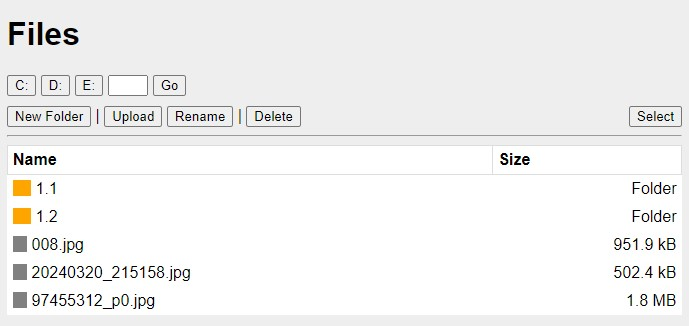
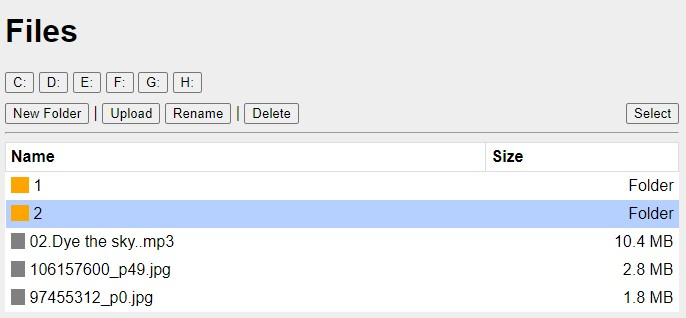
upload multiple files

diff --git a/templates/index.html b/templates/index.html
@@ -29,18 +29,19 @@
             <button onclick="document.getElementById('new').style.display='block'">New Folder</button> |
             <button onclick="document.getElementById('upload').style.display='block'">Upload</button>
             <button onclick="document.getElementById('rename').style.display='block';inputName();">Rename</button> |
-            <!-- <button>Move</button>
-            <button>Copy</button> -->
-
             <button onclick="document.getElementById('del').style.display='block'">Delete</button>
-            
+
             <button id="btnSelect" onclick="btnSelect()" style="float: right;">Select</button>
         </div>
         <hr>
+        
         <div id="upload" class="modal">
             <form class="modal-content" method=post enctype=multipart/form-data>
-                <input type=file name=file>
-                <input type=submit value=Upload!>
+                <input type="file" id="files" name="files" multiple>
+                <div class="progress-wrapper">
+                    <div id="progress-bar" class="progress"></div>
+                </div>
+                <input type="submit" value="Upload!">
             </form>
         </div>
         <div id="new" class="modal">
@@ -81,7 +82,7 @@
             {% for list in lists[0] %}
             <tr>
                 <td>
-                    <a href="{{ cur_dir + list['name'] }}"><div class="dir"></div>{{ list['name'] }}</a>
+                    <a href="{{ cur_dir + '/' + list['name'] }}"><div class="dir"></div>{{ list['name'] }}</a>
                 </td>
                 <td class="select"><input type="checkbox" class="dirname" value="{{ list['name'] }}"></td>
                 <td class="size">{{ list['size'] }}</td>
@@ -90,7 +91,7 @@
             {% for list in lists[1] %}
             <tr>
                 <td>
-                    <a href="{{ cur_dir + list['name'] }}">
+                    <a href="{{ cur_dir + '/' + list['name'] }}">
                         <div class="file"></div>{{ list['name'] }}
                     </a>
                 </td>
@@ -145,10 +146,10 @@
                     selfile.push(el.value);
                 });
                 if (dir) {
-                    // console.log(seldir);
+                    console.log(seldir);
                     return seldir;
                 } else {
-                    // console.log(selfile);
+                    console.log(selfile);
                     return selfile;
                 }
             }
@@ -181,6 +182,33 @@
                 }
                 document.getElementById('newname').value = name;
             }
+            function postFile() {
+                var formdata = new FormData();
+                formdata.append('files', document.getElementById('files').files[0]);
+                
+                var request = new XMLHttpRequest();
+                request.upload.addEventListener('progress', function (e) {
+                    var fileSize = document.getElementById('files').files[0].size;
+                    console.log(fileSize);
+                    
+                    if (e.loaded <= fileSize) {
+                        var percent = Math.round(e.loaded / fileSize * 100);
+                        document.getElementById('progress-bar').style.width = percent + '%';
+                        document.getElementById('progress-bar').innerHTML = percent + '%';
+                    } 
+                    
+                    if(e.loaded == e.total){
+                        document.getElementById('progress-bar').style.width = '100%';
+                        document.getElementById('progress-bar').innerHTML = '100%';
+                    }
+                });
+                request.upload.addEventListener('loadend', function (e) {
+                    
+                });
+                request.open('post', '{{ cur_dir }}');
+                request.timeout = 45000;
+                //request.send(formdata);
+            } 
         </script>
     </body>
 </html>

diff --git a/static/style.css b/static/style.css
@@ -116,3 +116,14 @@ a {
 .modal-content button {
     margin: 5px 10px;
 }
+
+.progress-wrapper {
+    width:100%;
+}
+.progress-wrapper .progress {
+    color: white;
+    text-align: center;
+    background-color:green;
+    width:0%;
+    padding:5px 0px 5px 0px;
+}

diff --git a/fileup.py b/fileup.py
@@ -1,57 +1,40 @@
 from flask import Flask, render_template, flash, request, send_file, redirect, url_for, abort
-from werkzeug.utils import secure_filename
 import os, shutil
-from urllib.parse import urlparse
 
-#$env:FLASK_APP="fileup.py";$env:FLASK_ENV="development";flask run -h 0.0.0.0
+#flask --app fileup --debug run -h 0.0.0.0
 
 app = Flask(__name__)
 app.secret_key = 'dev'
 app.config['UPLOAD_FOLDER'] = 'uploads'
-root = 'd:/'
+root = 'd:\\'
 
 @app.route('/', methods=['GET', 'POST'])
 def index():
-    cur_dir = '/'
+    
+    return redirect('/files')
+
+@app.route('/files/', methods=['GET', 'POST'])
+@app.route('/files/<path:url>', methods=['GET', 'POST'])
+def show_list(url=None):
+    #if url == 'favicon.ico':
+    #    return redirect(url_for('static', filename='icon.webp'))
     global root
     drives = [ chr(x) + ":" for x in range(65,91) if os.path.exists(chr(x) + ":") ]
-    try:
-        lists = show_file(root)
-    except:
-        root = 'd:/'
-        lists = show_file(root)
-    try:
-        filedest = upload()
-    except:
-        flash('Upload Fail')
-        return redirect('/')
-    if filedest:
-        return redirect(request.url)
     
-    return render_template('index.html', lists=lists, cur_dir=cur_dir, drives=drives)
+    if url == None:
+        url = ''
+    path = os.path.join(root, url)
+    
+    if os.path.isdir(path):
+        lists = show_file(path)
+    else:
+        return send_file(path)
+    cur_dir = '/files/' + url
 
-@app.route('/<path:url>', methods=['GET', 'POST'])
-def show_list(url):
-    if url == 'favicon.ico':
-        return redirect(url_for('static', filename='icon.webp'))
-    drives = [ chr(x) + ":" for x in range(65,91) if os.path.exists(chr(x) + ":") ]
-    try:
-        global root
-        path = os.path.join(root, url)
-        if os.path.isdir(path):
-            lists = show_file(path)
-            cur_dir = '/' + url + '/'
-        else:
-            return send_file(path)
-    except:
+    op =  postSend(url)
+    if op == 'disk':
         return redirect('/')
-    
-    #try:
-    filedest = upload()
-    #except:
-    #    flash('Upload Fail')
-    #    return redirect('/')
-    if filedest:
+    elif op:
         return redirect(request.url)
     
     return render_template('index.html', lists=lists, cur_dir=cur_dir, drives=drives)
@@ -77,12 +60,14 @@ def show_file(dir):
     
     return [dirs, files]
         
-def upload():
+def postSend(url):
     if request.method == 'POST':
         global root
+
+        # File Operate
         if 'op' in request.form:
             if request.form['op'] == 'delete':
-                delpath = request.form['path']
+                delpath = url
                 deldir = request.form['dirname'].split(',')
                 delfile = request.form['filename'].split(',')
                 if deldir != ['']:
@@ -94,12 +79,13 @@ def upload():
                         flash(os.path.join(root, delpath, x) + ' deleted.')
                         os.remove(os.path.join(root, delpath, x))
                 return 'delete'
+            
             elif request.form['op'] == 'rename':
                 newname = request.form['newname']
                 if newname == '':
                     flash('No name input.')
                     return redirect(request.url)
-                repath = request.form['path']
+                repath = url
                 redir = request.form['dirname'].split(',')
                 refile = request.form['filename'].split(',')
                 if (len(redir) > 1) or (len(refile) > 1 ) or ((redir != ['']) and ((refile != ['']))):
@@ -113,37 +99,35 @@ def upload():
                     os.rename(os.path.join(root, repath, refile[0]), os.path.join(root, repath, newname))
                 return 'rename'
 
-
-
-
+        # Change drives
         if 'disk' in request.form:
-            root = request.form['disk'] + '/'
-            return redirect('/')
+            root = request.form['disk'] + '\\'
+            return 'disk'
         
+        # Create new folder
         if 'foldername' in request.form:
             foldername = request.form['foldername']
-            url = urlparse(request.url).path + '/'
             folderpath = os.path.join(root, url, foldername)
             os.makedirs(folderpath)
-            return redirect(request.url)
+            return 'new'
         
-        if 'file' not in request.files:
+        # Upload one or more files
+        if 'files' not in request.files:
             flash('No file part')
             return redirect(request.url)
-        
-        file = request.files['file']
-        if file.filename == '':
+
+        files = request.files.getlist('files')
+        if (files[0].filename == ''):
             flash('No selected file')
             return redirect(request.url)
-        
-        filename = secure_filename(file.filename)
-        fileup = os.path.join(app.config['UPLOAD_FOLDER'], filename)
 
-        url = urlparse(request.url).path + '/'
-        filedest = os.path.join(root, url, filename)
-        file.save(fileup)
-        shutil.move(fileup, filedest)
-        return filedest
+        for file in files:
+            fileup = os.path.join(app.config['UPLOAD_FOLDER'], file.filename)
+            file.save(fileup)
+            filedest = os.path.join(root, url, file.filename)
+            shutil.move(fileup, filedest)
+            print(filedest)
+        return redirect(request.url)
     return
 
 def sizedisp(num):
